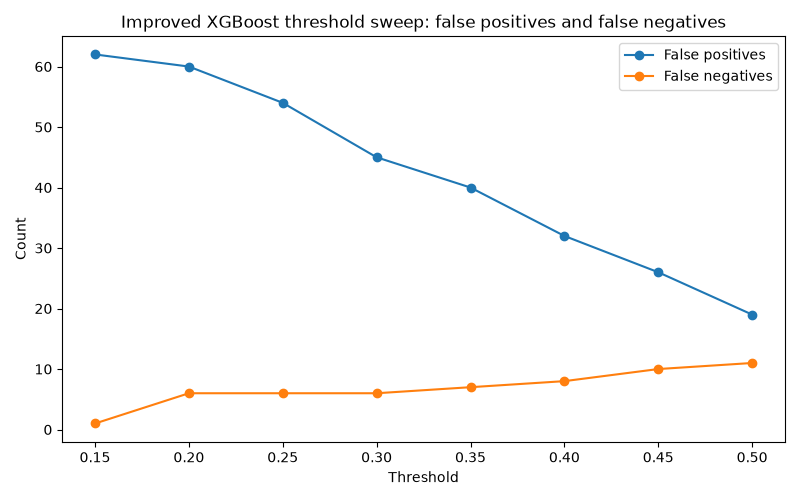
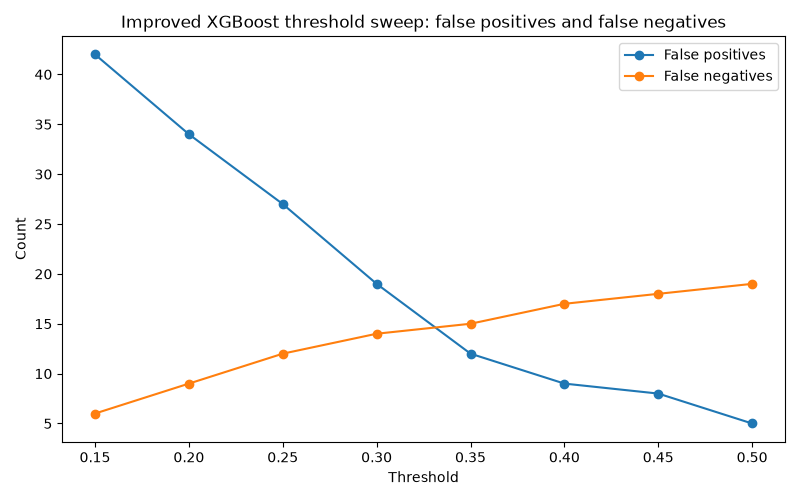
feat: remove random sampling from regularised XGBoost so results reproduce across machines

diff --git a/src/improve.py b/src/improve.py
@@ -17,13 +17,13 @@ from src.model import (
 GRID = {
     "max_depth": [2, 3, 4],
     "learning_rate": [0.05, 0.1],
-    "scale_pos_weight": [1, 3.6],
 }
 FIXED = {
     "n_estimators": 300,
     "min_child_weight": 5,
-    "subsample": 0.8,
-    "colsample_bytree": 0.8,
+    "subsample": 1.0,
+    "colsample_bytree": 1.0,
+    "scale_pos_weight": 1,
 }
 
 
@@ -33,15 +33,13 @@ def extreme_share(scores):
 
 def run_grid(X_fit, X_val, y_fit, y_val):
     rows = []
-    for depth, learning_rate, pos_weight in product(
+    for depth, learning_rate in product(
         GRID["max_depth"],
         GRID["learning_rate"],
-        GRID["scale_pos_weight"],
     ):
         params = {
             "max_depth": depth,
             "learning_rate": learning_rate,
-            "scale_pos_weight": pos_weight,
         }
         model = build_xgb_pipeline(**FIXED, **params)
         model.fit(X_fit, y_fit)
@@ -122,7 +120,6 @@ def main():
     winner_params = {
         "max_depth": int(winner["max_depth"]),
         "learning_rate": float(winner["learning_rate"]),
-        "scale_pos_weight": float(winner["scale_pos_weight"]),
     }
     if winner["validation_auc"] == grid_results.iloc[0]["validation_auc"]:
         reason = "highest validation AUC"

diff --git a/src/model.py b/src/model.py
@@ -45,8 +45,8 @@ METRICS = ("accuracy", "precision_1", "recall_1", "f1_1", "roc_auc")
 FINAL_XGB_PARAMS = {
     "n_estimators": 300,
     "min_child_weight": 5,
-    "subsample": 0.8,
-    "colsample_bytree": 0.8,
+    "subsample": 1.0,
+    "colsample_bytree": 1.0,
     "max_depth": 2,
     "learning_rate": 0.05,
     "scale_pos_weight": 1,
